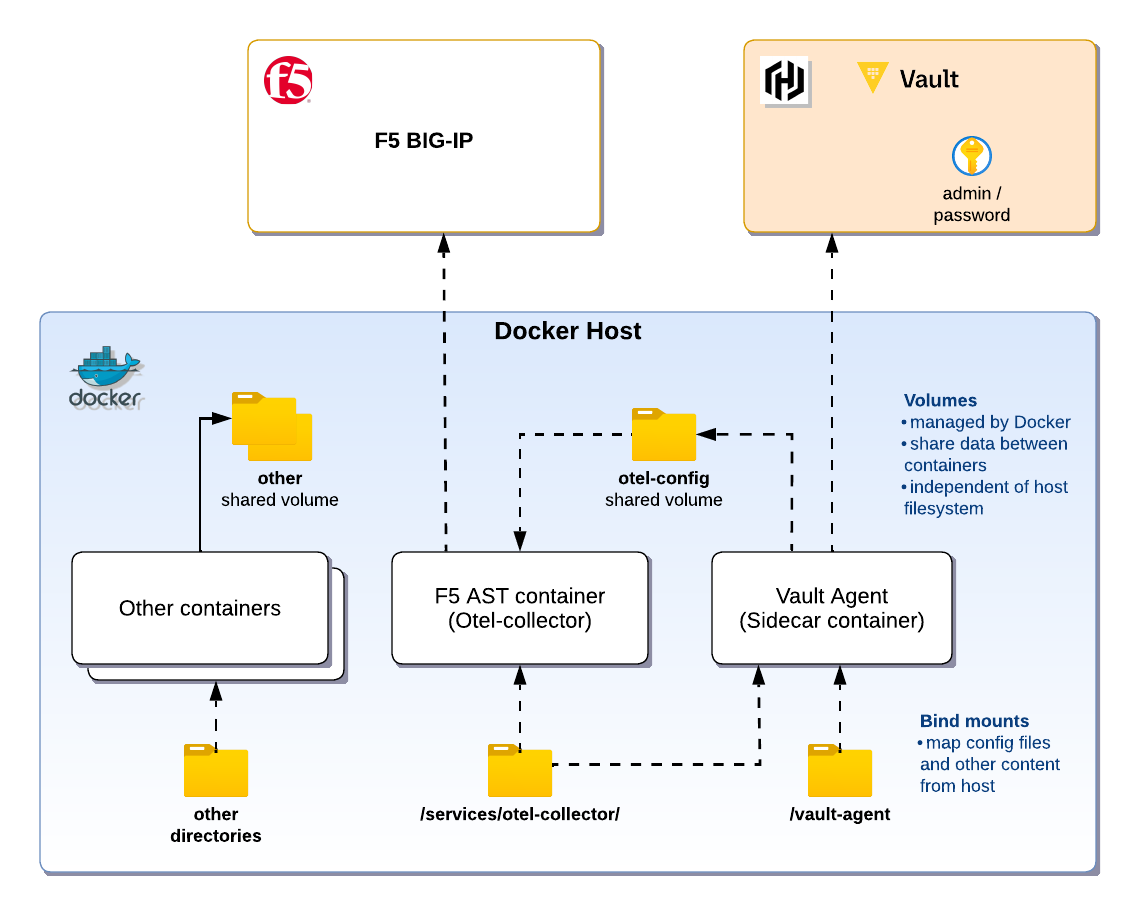
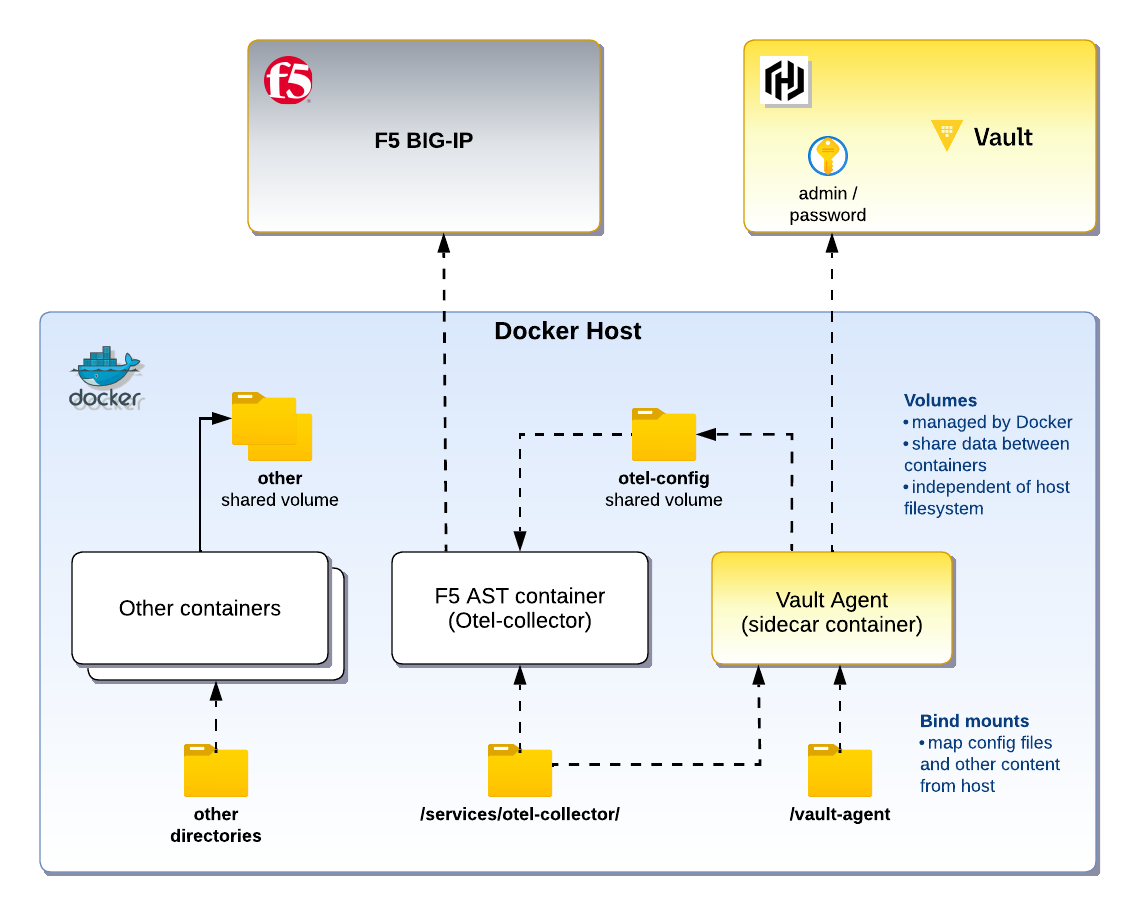
updates for clarity

diff --git a/_posts/2025-04-25-vault-agent-AST.md b/_posts/2025-04-25-vault-agent-AST.md
@@ -5,6 +5,16 @@ categories: [docker]
 tags: [docker, vault]
 excerpt: "Draft for F5 DevCentral Article" #this is a custom variable meant for a short description to be displayed on home page
 toc: true
+gallery:
+  - image_path: assets/vault-agent-sidecar/docker_bigip.png
+    url: assets/vault-agent-sidecar/docker_bigip.png
+    title: "Docker without Vault Agent"
+  - image_path: assets/vault-agent-sidecar/docker_vault_agent_bigip.png
+    url: assets/vault-agent-sidecar/docker_vault_agent_bigip.png
+    title: "Vault Agent installed locally"
+  - image_path: assets/vault-agent-sidecar/docker_vault_sidecar_bigip.png
+    url: assets/vault-agent-sidecar/docker_vault_sidecar_bigip.png
+    title: "Vault Agent as Sidecar"
 ---
 <figure>
     <a href="/assets/vault-agent-sidecar/vault-agent-sidecar.png"><img src="/assets/vault-agent-sidecar/vault-agent-sidecar.png"></a>
@@ -17,6 +27,10 @@ This part 1 of 2 articles:
 
 1. [Vault Agent for F5 AST]({% post_url 2025-04-25-vault-agent-AST %})
 2. [Vault Agent as a sidecar for F5 AST]({% post_url 2025-04-26-vault-agent-sidecar-for-AST %})
+
+<hr>
+{% include gallery caption="Examples of secret management with Docker"  %}
+<hr>
 
 ### Overview of architecture
 In this example, we'll follow the official documentation to run F5's Application Study Tool. Then we will modify our configuration by removing the `.env.device-secrets` file that contains the passwords for BIG-IP devices, and provide the value with an environment variable from the Docker Host.

diff --git a/_posts/2025-04-26-vault-agent-sidecar-for-AST.md b/_posts/2025-04-26-vault-agent-sidecar-for-AST.md
@@ -5,6 +5,16 @@ categories: [docker]
 tags: [docker, vault]
 excerpt: "Draft for F5 DevCentral Article" #this is a custom variable meant for a short description to be displayed on home page
 toc: true
+gallery:
+  - image_path: assets/vault-agent-sidecar/docker_bigip.png
+    url: assets/vault-agent-sidecar/docker_bigip.png
+    title: "Docker without Vault Agent"
+  - image_path: assets/vault-agent-sidecar/docker_vault_agent_bigip.png
+    url: assets/vault-agent-sidecar/docker_vault_agent_bigip.png
+    title: "Vault Agent installed locally"
+  - image_path: assets/vault-agent-sidecar/docker_vault_sidecar_bigip.png
+    url: assets/vault-agent-sidecar/docker_vault_sidecar_bigip.png
+    title: "Vault Agent as Sidecar"
 ---
 <figure>
     <a href="/assets/vault-agent-sidecar/vault-agent-sidecar.png"><img src="/assets/vault-agent-sidecar/vault-agent-sidecar.png"></a>
@@ -17,6 +27,10 @@ This part 2 of 2 articles:
 
 1. [Vault Agent for F5 AST]({% post_url 2025-04-25-vault-agent-AST %})
 2. [Vault Agent as a sidecar for F5 AST]({% post_url 2025-04-26-vault-agent-sidecar-for-AST %})
+
+<hr>
+{% include gallery caption="Examples of secret management with Docker"  %}
+<hr>
 
 #### What is a sidecar container?
 A sidecar container running Vault Agent can retrieve secrets and provide them to other containers. This removes the requirement to run Vault on the Docker Host, allowing the container(s) to run on other servers.
